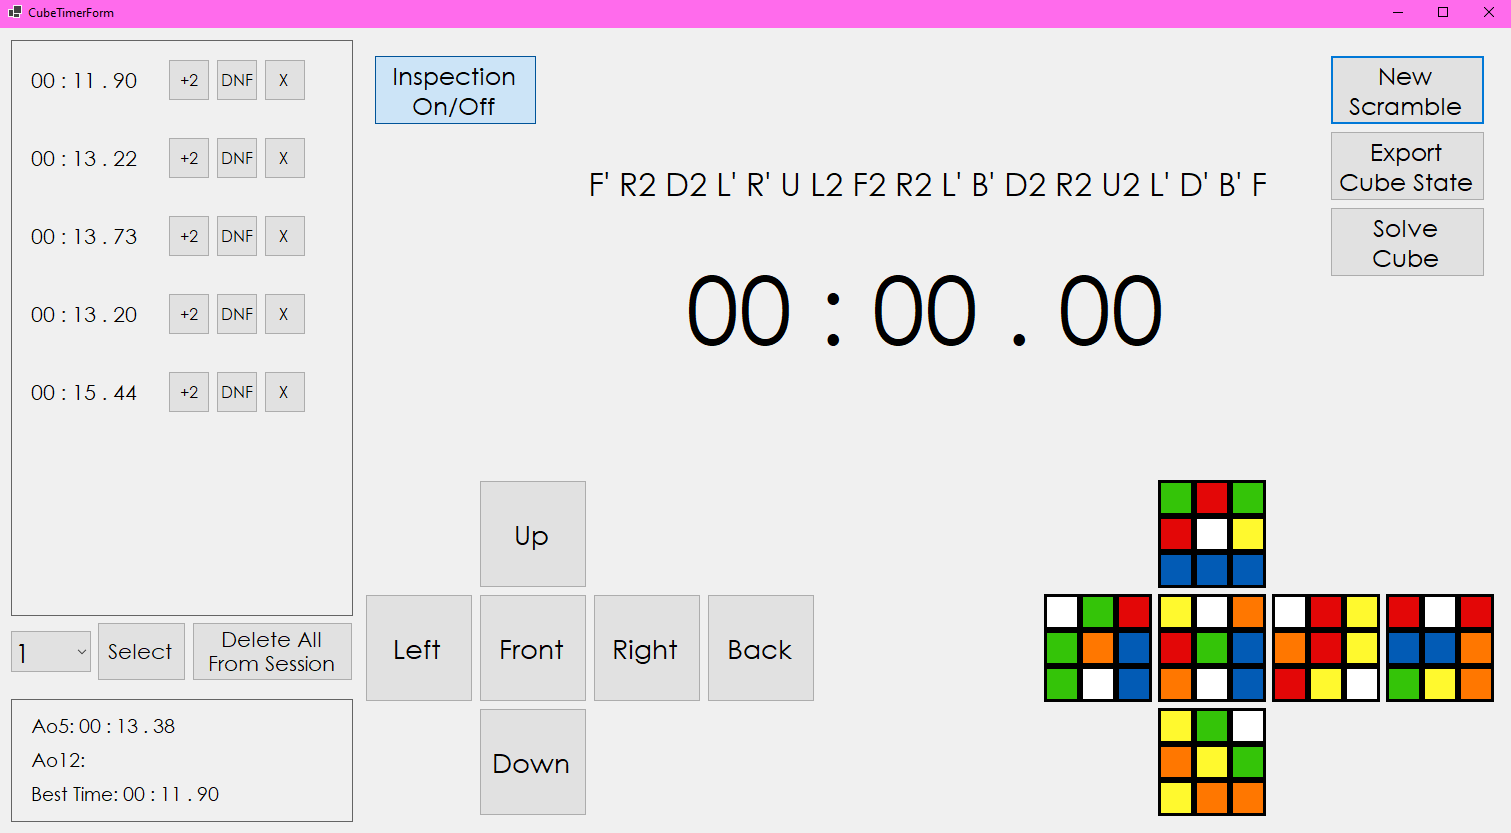
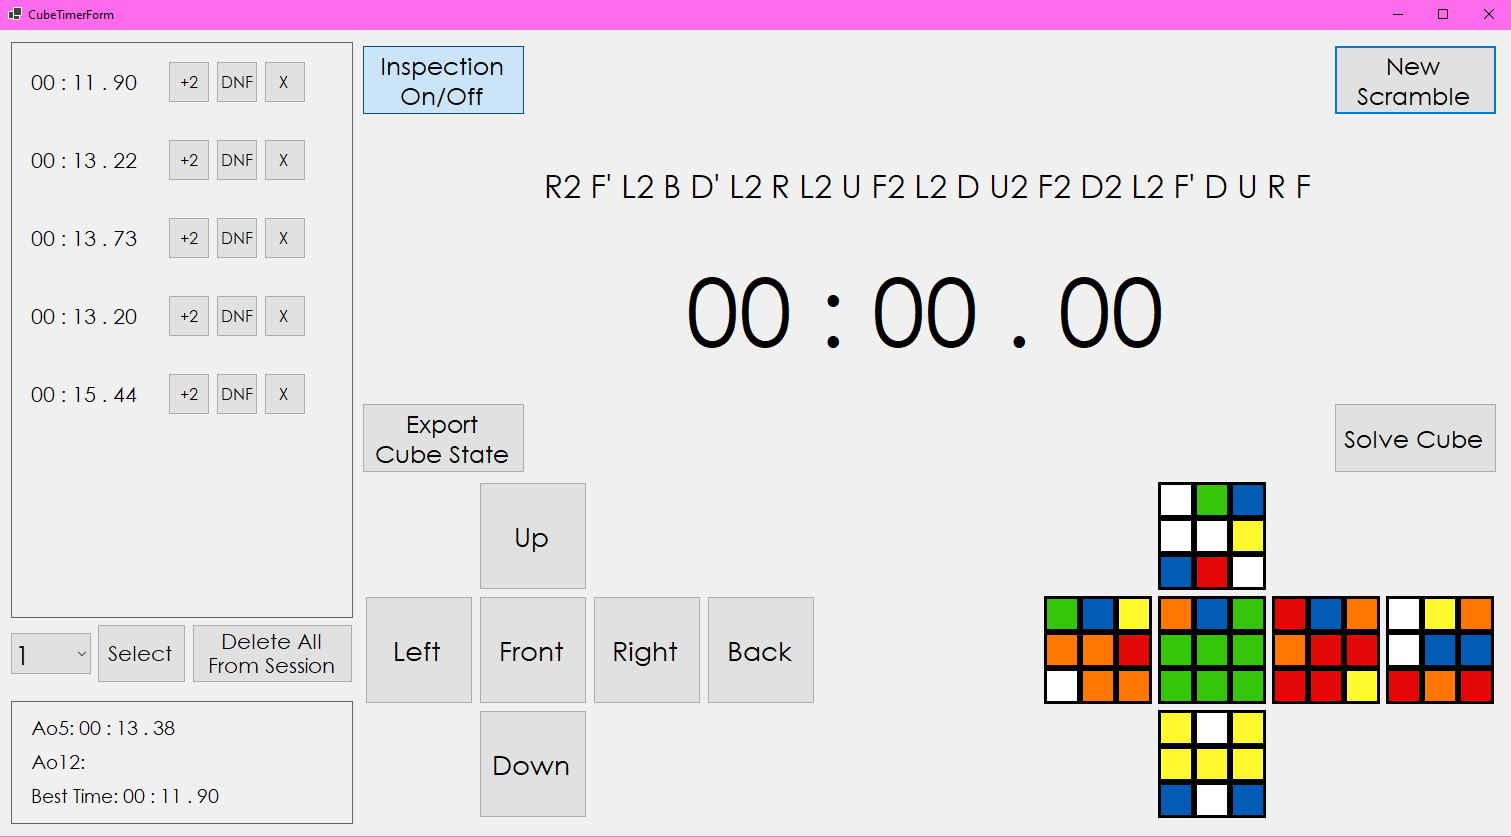
update manual

diff --git a/forms/CubeTimerForm.Designer.cs b/forms/CubeTimerForm.Designer.cs
@@ -27,6 +27,7 @@
             labelTimer = new Label();
             timerSolve = new System.Windows.Forms.Timer(components);
             panelTimer = new Panel();
+            buttonSolveCube = new Button();
             buttonExportCubeState = new Button();
             checkBoxInspectionEnabled = new CheckBox();
             panelTurns = new Panel();
@@ -108,7 +109,6 @@
             buttonSelectSession = new Button();
             buttonDeleteAllFromSession = new Button();
             timerInspection = new System.Windows.Forms.Timer(components);
-            buttonSolveCube = new Button();
             panelTimer.SuspendLayout();
             panelTurns.SuspendLayout();
             panelCube.SuspendLayout();
@@ -154,13 +154,25 @@
             panelTimer.Size = new Size(1141, 782);
             panelTimer.TabIndex = 2;
             // 
+            // buttonSolveCube
+            // 
+            buttonSolveCube.Anchor = AnchorStyles.Top | AnchorStyles.Right;
+            buttonSolveCube.Font = new Font("Century Gothic", 18F, FontStyle.Regular, GraphicsUnit.Point);
+            buttonSolveCube.Location = new Point(975, 361);
+            buttonSolveCube.Name = "buttonSolveCube";
+            buttonSolveCube.Size = new Size(163, 70);
+            buttonSolveCube.TabIndex = 12;
+            buttonSolveCube.Text = "Solve Cube";
+            buttonSolveCube.UseVisualStyleBackColor = true;
+            buttonSolveCube.Click += buttonSolveCube_Click;
+            // 
             // buttonExportCubeState
             // 
             buttonExportCubeState.Anchor = AnchorStyles.Top | AnchorStyles.Right;
             buttonExportCubeState.Font = new Font("Century Gothic", 18F, FontStyle.Regular, GraphicsUnit.Point);
-            buttonExportCubeState.Location = new Point(971, 91);
+            buttonExportCubeState.Location = new Point(3, 361);
             buttonExportCubeState.Name = "buttonExportCubeState";
-            buttonExportCubeState.Size = new Size(155, 70);
+            buttonExportCubeState.Size = new Size(163, 70);
             buttonExportCubeState.TabIndex = 11;
             buttonExportCubeState.Text = "Export Cube State";
             buttonExportCubeState.UseVisualStyleBackColor = true;
@@ -170,7 +182,7 @@
             // 
             checkBoxInspectionEnabled.Appearance = Appearance.Button;
             checkBoxInspectionEnabled.Font = new Font("Century Gothic", 18F, FontStyle.Regular, GraphicsUnit.Point);
-            checkBoxInspectionEnabled.Location = new Point(15, 15);
+            checkBoxInspectionEnabled.Location = new Point(3, 3);
             checkBoxInspectionEnabled.Name = "checkBoxInspectionEnabled";
             checkBoxInspectionEnabled.Size = new Size(163, 70);
             checkBoxInspectionEnabled.TabIndex = 10;
@@ -275,9 +287,9 @@
             // 
             buttonNewScramble.Anchor = AnchorStyles.Top | AnchorStyles.Right;
             buttonNewScramble.Font = new Font("Century Gothic", 18F, FontStyle.Regular, GraphicsUnit.Point);
-            buttonNewScramble.Location = new Point(971, 15);
+            buttonNewScramble.Location = new Point(975, 3);
             buttonNewScramble.Name = "buttonNewScramble";
-            buttonNewScramble.Size = new Size(155, 70);
+            buttonNewScramble.Size = new Size(163, 70);
             buttonNewScramble.TabIndex = 8;
             buttonNewScramble.Text = "New Scramble";
             buttonNewScramble.UseVisualStyleBackColor = true;
@@ -939,18 +951,6 @@
             // timerInspection
             // 
             timerInspection.Tick += timerInspection_Tick;
-            // 
-            // buttonSolveCube
-            // 
-            buttonSolveCube.Anchor = AnchorStyles.Top | AnchorStyles.Right;
-            buttonSolveCube.Font = new Font("Century Gothic", 18F, FontStyle.Regular, GraphicsUnit.Point);
-            buttonSolveCube.Location = new Point(971, 167);
-            buttonSolveCube.Name = "buttonSolveCube";
-            buttonSolveCube.Size = new Size(155, 70);
-            buttonSolveCube.TabIndex = 12;
-            buttonSolveCube.Text = "Solve Cube";
-            buttonSolveCube.UseVisualStyleBackColor = true;
-            buttonSolveCube.Click += buttonSolveCube_Click;
             // 
             // CubeTimerForm
             // 

diff --git a/Properties/Settings.Designer.cs b/Properties/Settings.Designer.cs
@@ -38,7 +38,7 @@ namespace LakaCubeTimer.Properties {
         [global::System.Configuration.ApplicationScopedSettingAttribute()]
         [global::System.Diagnostics.DebuggerNonUserCodeAttribute()]
         [global::System.Configuration.SpecialSettingAttribute(global::System.Configuration.SpecialSetting.ConnectionString)]
-        [global::System.Configuration.DefaultSettingValueAttribute("Provider=Microsoft.ACE.OLEDB.12.0;Data Source=..\\\\..\\\\..\\\\..\\\\times.accdb")]
+        [global::System.Configuration.DefaultSettingValueAttribute("Provider=Microsoft.ACE.OLEDB.12.0;Data Source=.\\\\times.accdb")]
         public string timesConnectionString {
             get {
                 return ((string)(this["timesConnectionString"]));
